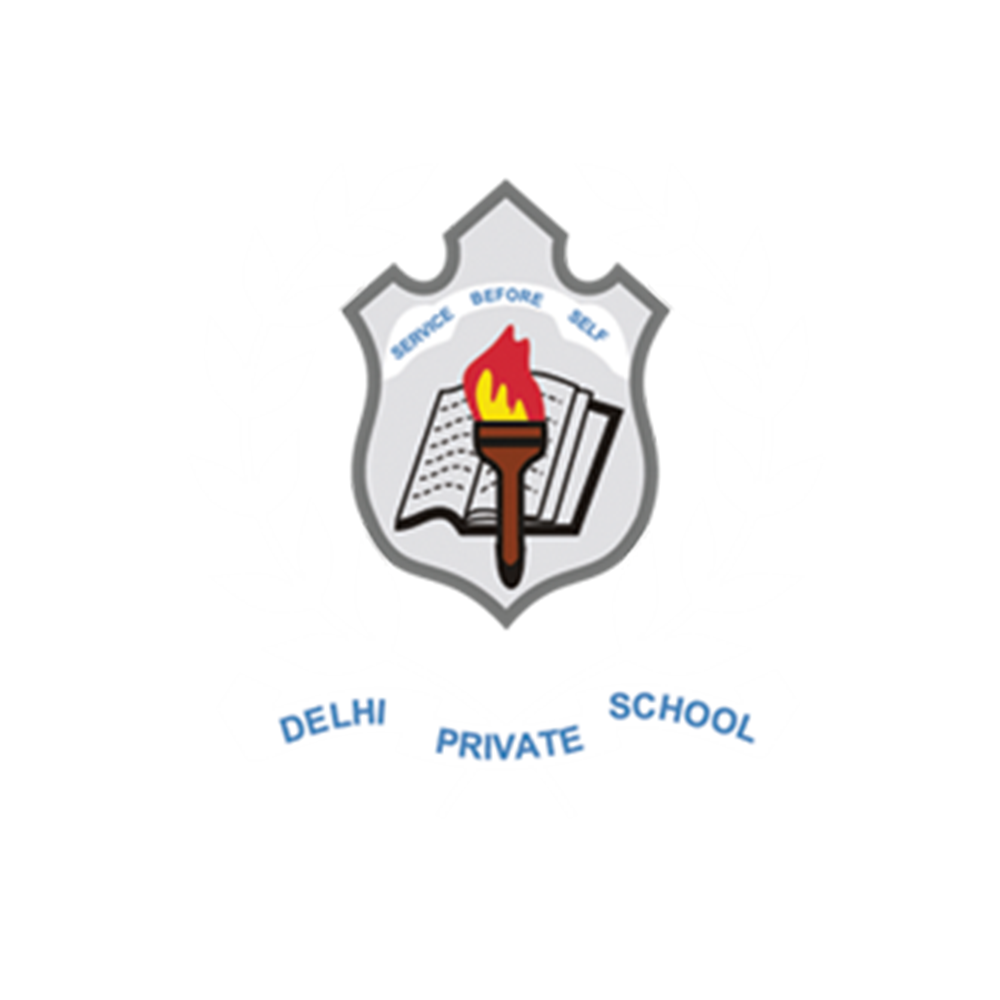
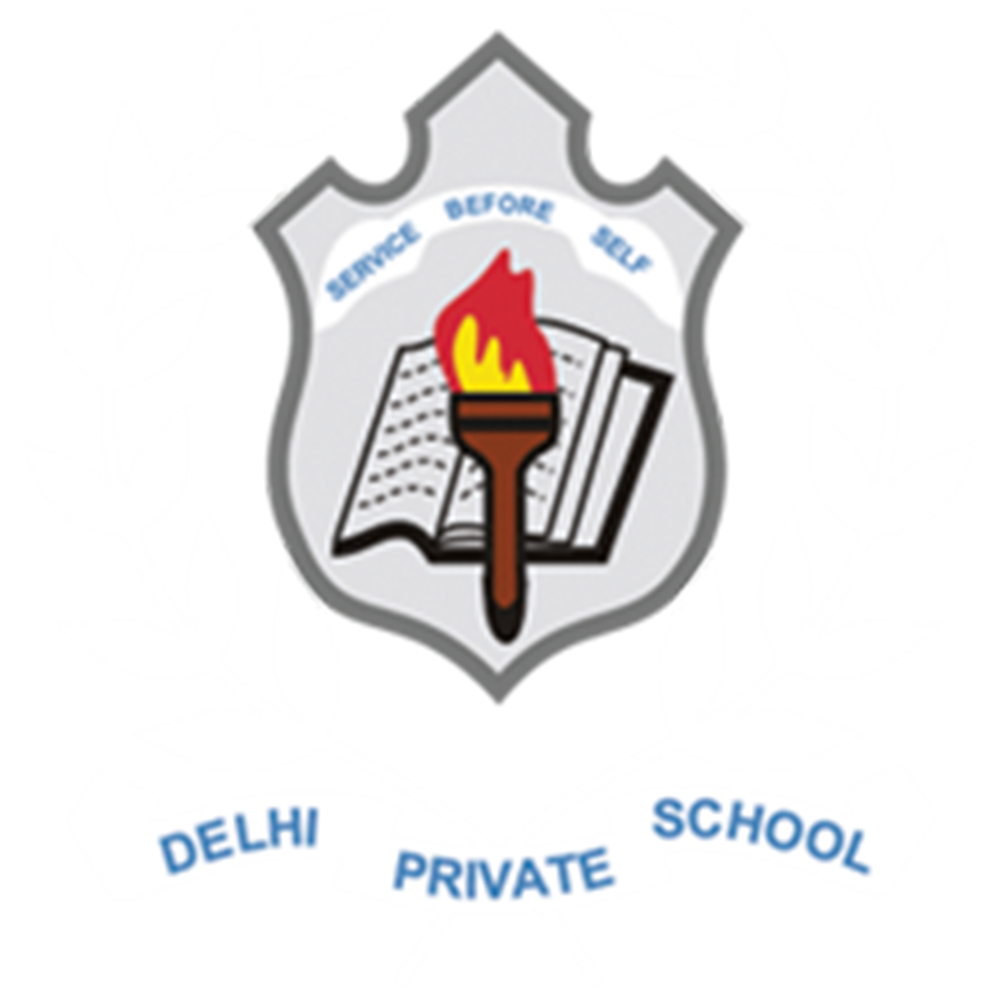
New Commit

diff --git a/index.html b/index.html
@@ -146,7 +146,7 @@ body, h1,h2,h3,h4,h5,h6 {font-family: "Montserrat", sans-serif}
   <p><span class="w3-large w3-margin-right"> BIRLA INSTITUTE OF TECHNOLOGY, RANCHI, JHARKHAND </span> B.TECH</p>
   <p>Major: Information Technology | 7 CGPA | Ongoing</p><br>
   
-  <img src="unnamed.png" alt="Avatar" class="w3-left w3-circle w3-margin-right" style="width:80px">
+  <img src="dps.png" alt="Avatar" class="w3-left w3-circle w3-margin-right" style="width:80px">
   <p><span class="w3-large w3-margin-right"> DELHI PRIVATE SCHOOL, SHARJAH </span> AISSCE- 12TH</p>
   <p>Major: Physics, Chemistry, Mathematics | 85.2% | May 2018</p><br>
 
